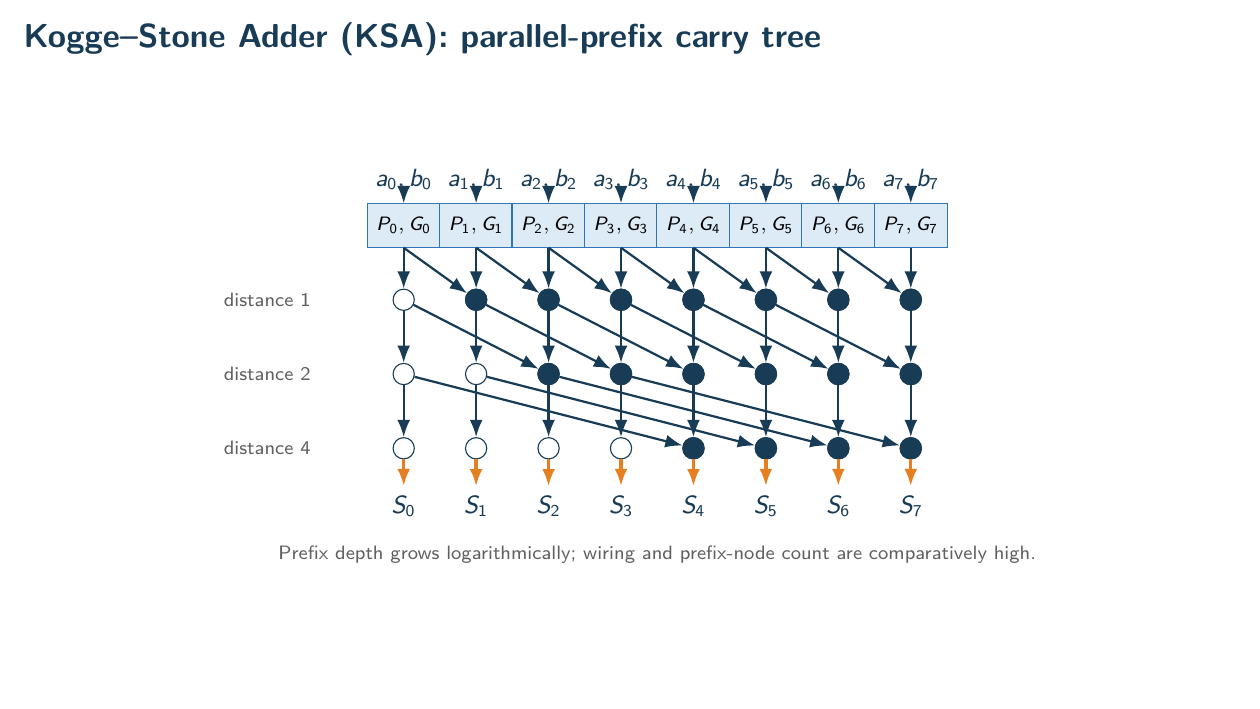
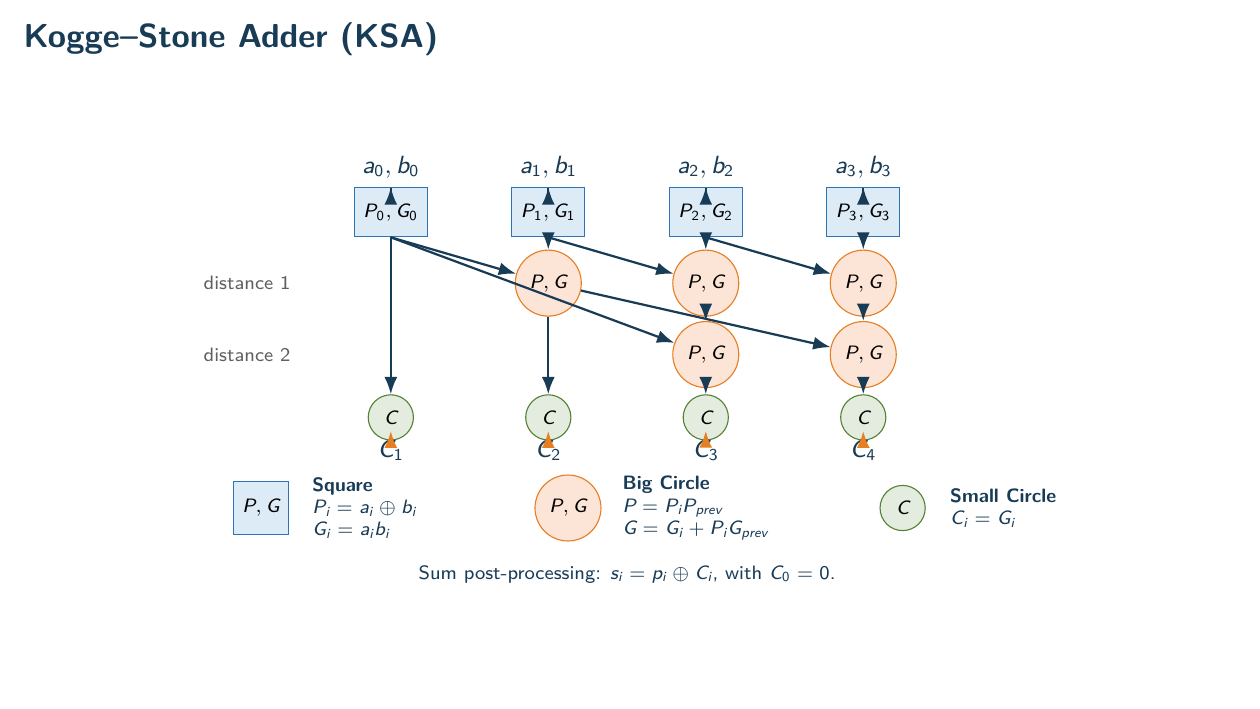
document Kogge-Stone prefix operators

diff --git a/docs/diagrams/adder_architectures.tex b/docs/diagrams/adder_architectures.tex
@@ -218,54 +218,62 @@
 \end{frame}
 
 % 5. Kogge-Stone Adder
-\begin{frame}{Kogge--Stone Adder (KSA): parallel-prefix carry tree}
+\begin{frame}{Kogge--Stone Adder (KSA)}
 \centering
-\begin{tikzpicture}[x=.92cm,y=.82cm]
-  \foreach \i in {0,...,7}{
-    \pgfmathsetmacro{\x}{\i-3.5}
-    \node[pg] (p\i) at (\x,2.25) {$P_{\i},G_{\i}$};
-    \node[label] at (\x,2.95) {$a_{\i},b_{\i}$};
-    \draw[data] (\x,2.85) -- (p\i.north);
+\begin{tikzpicture}[x=1cm,y=.84cm]
+  % Four-bit prefix tree. Square operators create bit P/G pairs, Big Circle
+  % operators combine adjacent groups, and Small Circle operators emit carry.
+  \foreach \i/\x in {0/-3,1/-1,2/1,3/3}{
+    \node[pg,minimum width=.88cm,minimum height=.62cm] (sq\i) at (\x,2.35)
+      {$P_{\i},G_{\i}$};
+    \node[label] (in\i) at (\x,3.03) {$a_{\i},b_{\i}$};
+    \draw[data] (in\i) -- (sq\i.north);
   }
-  \foreach \i in {0,...,7}{
-    \pgfmathsetmacro{\x}{\i-3.5}
-    \node[grayprefix] (s1\i) at (\x,1.10) {};
-    \draw[data] (p\i.south) -- (s1\i);
+
+  \node[draw=Orange,fill=OrangeLight,circle,minimum size=.72cm,font=\scriptsize\sffamily] (bc11) at (-1,1.28) {$P,G$};
+  \node[draw=Orange,fill=OrangeLight,circle,minimum size=.72cm,font=\scriptsize\sffamily] (bc12) at (1,1.28) {$P,G$};
+  \node[draw=Orange,fill=OrangeLight,circle,minimum size=.72cm,font=\scriptsize\sffamily] (bc13) at (3,1.28) {$P,G$};
+  \draw[data] (sq1.south) -- (bc11);
+  \draw[data] (sq0.south) -- (bc11);
+  \draw[data] (sq2.south) -- (bc12);
+  \draw[data] (sq1.south) -- (bc12);
+  \draw[data] (sq3.south) -- (bc13);
+  \draw[data] (sq2.south) -- (bc13);
+
+  \node[draw=Orange,fill=OrangeLight,circle,minimum size=.72cm,font=\scriptsize\sffamily] (bc22) at (1,.20) {$P,G$};
+  \node[draw=Orange,fill=OrangeLight,circle,minimum size=.72cm,font=\scriptsize\sffamily] (bc23) at (3,.20) {$P,G$};
+  \draw[data] (bc12) -- (bc22);
+  \draw[data] (sq0.south) -- (bc22);
+  \draw[data] (bc13) -- (bc23);
+  \draw[data] (bc11) -- (bc23);
+
+  \foreach \i/\x in {0/-3,1/-1,2/1,3/3}{
+    \node[draw=Green,fill=Green!16,circle,minimum size=.52cm,font=\scriptsize\sffamily] (sc\i) at (\x,-.75) {$C$};
+    \node[label] (carry\i) at (\x,-1.25) {$C_{\the\numexpr\i+1\relax}$};
+    \draw[carry] (sc\i) -- (carry\i);
   }
-  \foreach \i in {1,...,7}{
-    \pgfmathtruncatemacro{\j}{\i-1}
-    \draw[data] (p\j.south) -- (s1\i);
-    \node[prefnode] at (s1\i) {};
-  }
-  \foreach \i in {0,...,7}{
-    \pgfmathsetmacro{\x}{\i-3.5}
-    \node[grayprefix] (s2\i) at (\x,-.05) {};
-    \draw[data] (s1\i) -- (s2\i);
-  }
-  \foreach \i in {2,...,7}{
-    \pgfmathtruncatemacro{\j}{\i-2}
-    \draw[data] (s1\j) -- (s2\i);
-    \node[prefnode] at (s2\i) {};
-  }
-  \foreach \i in {0,...,7}{
-    \pgfmathsetmacro{\x}{\i-3.5}
-    \node[grayprefix] (s3\i) at (\x,-1.20) {};
-    \draw[data] (s2\i) -- (s3\i);
-  }
-  \foreach \i in {4,...,7}{
-    \pgfmathtruncatemacro{\j}{\i-4}
-    \draw[data] (s2\j) -- (s3\i);
-    \node[prefnode] at (s3\i) {};
-  }
-  \foreach \i in {0,...,7}{
-    \pgfmathsetmacro{\x}{\i-3.5}
-    \node[label] (sum\i) at (\x,-2.10) {$S_{\i}$};
-    \draw[carry] (s3\i) -- (sum\i);
-  }
-  \node[note,anchor=east] at (-4.65,1.10) {distance 1};
-  \node[note,anchor=east] at (-4.65,-.05) {distance 2};
-  \node[note,anchor=east] at (-4.65,-1.20) {distance 4};
-  \node[note] at (0,-2.85) {Prefix depth grows logarithmically; wiring and prefix-node count are comparatively high.};
+  \draw[data] (sq0.south) -- (sc0);
+  \draw[data] (bc11) -- (sc1);
+  \draw[data] (bc22) -- (sc2);
+  \draw[data] (bc23) -- (sc3);
+  \node[note,anchor=east] at (-4.15,1.28) {distance 1};
+  \node[note,anchor=east] at (-4.15,.20) {distance 2};
+
+  % Operator legend and the exact Boolean expressions implemented by KSA4.v.
+  \node[pg,minimum width=.68cm,minimum height=.68cm] at (-4.65,-2.12) {$P,G$};
+  \node[note,anchor=west,text=Navy,align=left] at (-4.12,-2.12)
+    {\textbf{Square}\\$P_i=a_i\oplus b_i$\\$G_i=a_i b_i$};
+
+  \node[draw=Orange,fill=OrangeLight,circle,minimum size=.70cm,font=\scriptsize\sffamily] at (-.75,-2.12) {$P,G$};
+  \node[note,anchor=west,text=Navy,align=left] at (-.18,-2.12)
+    {\textbf{Big Circle}\\$P=P_iP_{prev}$\\$G=G_i+P_iG_{prev}$};
+
+  \node[draw=Green,fill=Green!16,circle,minimum size=.52cm,font=\scriptsize\sffamily] at (3.50,-2.12) {$C$};
+  \node[note,anchor=west,text=Navy,align=left] at (3.98,-2.12)
+    {\textbf{Small Circle}\\$C_i=G_i$};
+
+  \node[note,text=Navy] at (0,-3.12)
+    {Sum post-processing: $s_i=p_i\oplus C_i$, with $C_0=0$.};
 \end{tikzpicture}
 \end{frame}
 
